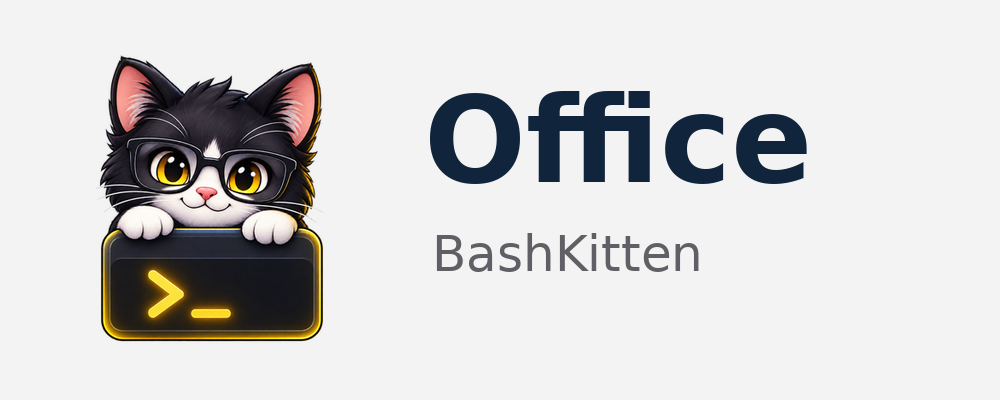
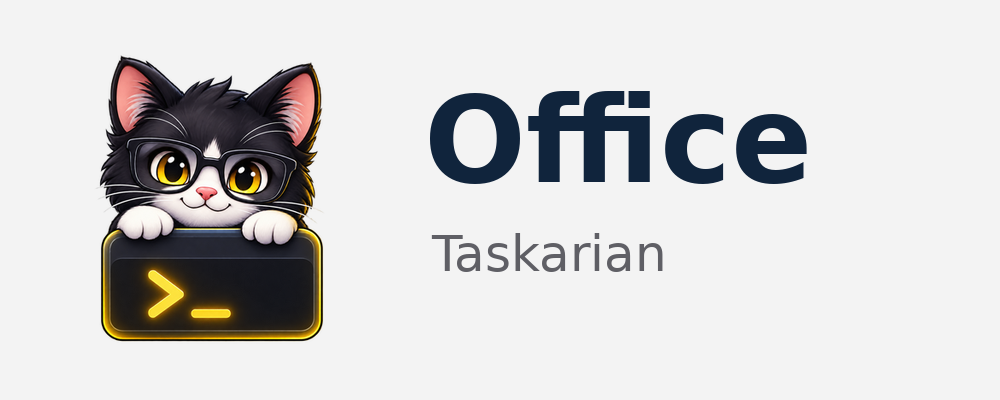
Regenerate Taskarian splash artwork and verified source metadata

Changed region(s): [[0.434, 0.57, 0.713, 0.69]]

diff --git a/browser/browser/base/content/overrides/app-license-body.html b/browser/browser/base/content/overrides/app-license-body.html
@@ -676,7 +676,7 @@
             For more information on this, and how to apply and follow the GNU AGPL, see
             &lt;https://www.gnu.org/licenses/&gt;.
     </pre>
-    <h2 id="taskarian-project-notices-33f40fa8d82726b7cae55a90841dccce7b47a55b7edddc265134b6441cdcf492">SHA-256 33f40fa8d82726b7cae55a90841dccce7b47a55b7edddc265134b6441cdcf492</h2>
+    <h2 id="taskarian-project-notices-26d86b0491d4aadb0e88ce029f40a17e6d4cceaaeb249ecc7b84f31a7af311d1">SHA-256 26d86b0491d4aadb0e88ce029f40a17e6d4cceaaeb249ecc7b84f31a7af311d1</h2>
     <p>Packages: Taskarian browser licences and source notices<br>Upstream paths: <code>taskarian/BLOCKER-ASSET-SOURCE-NOTICE</code></p>
     <pre>
             SPDX-License-Identifier: AGPL-3.0-or-later
@@ -688,7 +688,7 @@
             taskarian-blocker-assets-source.tar.xz beside the browser packages in the
             same release set.
     </pre>
-    <h2 id="taskarian-project-notices-68227c6c1c058d991d19625c21df6bf8870c0560ee66c35019386ac64cfa2b80">SHA-256 68227c6c1c058d991d19625c21df6bf8870c0560ee66c35019386ac64cfa2b80</h2>
+    <h2 id="taskarian-project-notices-5f934a64e5b18fb0439450a2f1e618ffbcafac7b5b6668a27223dc9be8d71f8d">SHA-256 5f934a64e5b18fb0439450a2f1e618ffbcafac7b5b6668a27223dc9be8d71f8d</h2>
     <p>Packages: Taskarian browser licences and source notices<br>Upstream paths: <code>taskarian/SOURCE-NOTICE</code></p>
     <pre>
             SPDX-License-Identifier: AGPL-3.0-or-later
@@ -739,7 +739,7 @@
             OUT OF OR IN CONNECTION WITH THE SOFTWARE OR THE USE OR OTHER DEALINGS IN THE
             SOFTWARE.
     </pre>
-    <h2 id="taskarian-project-notices-937b0af1adcead7df5980d6a2d7efb28ca4e3f1d246d708ceb79ed97e5db9869">SHA-256 937b0af1adcead7df5980d6a2d7efb28ca4e3f1d246d708ceb79ed97e5db9869</h2>
+    <h2 id="taskarian-project-notices-a7293c535da948258df662eac5c89deaece2baa624f13f2fe13ce85dcc5b24ae">SHA-256 a7293c535da948258df662eac5c89deaece2baa624f13f2fe13ce85dcc5b24ae</h2>
     <p>Packages: Taskarian browser licences and source notices<br>Upstream paths: <code>LICENSE</code></p>
     <pre>
             Taskarian-owned code and branding are licensed under GNU Affero General
@@ -778,7 +778,7 @@
             No rights or licenses are granted to the trademarks of the Mozilla Foundation
             or any other party, including the Firefox or Waterfox names and logos.
     </pre>
-    <h2 id="taskarian-project-notices-97c01d663782faf22125d54c0c1c153e58302bb846dca9394abca90b4c75a751">SHA-256 97c01d663782faf22125d54c0c1c153e58302bb846dca9394abca90b4c75a751</h2>
+    <h2 id="taskarian-project-notices-eb0240a85ce5dc6217dcf66e8f550adc6a0f5b8fe124d2bda6758d0bd32cfef1">SHA-256 eb0240a85ce5dc6217dcf66e8f550adc6a0f5b8fe124d2bda6758d0bd32cfef1</h2>
     <p>Packages: Taskarian browser licences and source notices<br>Upstream paths: <code>taskarian/browser/branding/LICENSE</code></p>
     <pre>
             The Taskarian kitten-with-glasses logo in
@@ -1249,7 +1249,7 @@
 
             For more information, please refer to &lt;http://unlicense.org/&gt;
     </pre>
-    <h2 id="taskarian-blocker-engine-notices-d99e38abd87f72d2d24570f119e90717bfb4017275bd33086456407a43f85bd5">SHA-256 d99e38abd87f72d2d24570f119e90717bfb4017275bd33086456407a43f85bd5</h2>
+    <h2 id="taskarian-blocker-engine-notices-a4b3f4865bc85dd8fdd0a0bfa4ce27dca157c094fa08d6fc0074e3ff71c25e3c">SHA-256 a4b3f4865bc85dd8fdd0a0bfa4ce27dca157c094fa08d6fc0074e3ff71c25e3c</h2>
     <p>Packages: Adblock engine and memchr source notices<br>Upstream paths: <code>taskarian/BLOCKER-ENGINE-SOURCE-NOTICE</code></p>
     <pre>
             SPDX-License-Identifier: AGPL-3.0-only
@@ -1289,7 +1289,7 @@
   </td>
   <td>
     <p>Exact upstream legal files follow once per distinct SHA-256 digest. Package names identify every component that supplied each file.</p>
-    <h2 id="taskarian-waterfox-notices-c681e62dc5182163301eb4baf839e5fb803e43a36fcbaece369e57f93dce185f">SHA-256 c681e62dc5182163301eb4baf839e5fb803e43a36fcbaece369e57f93dce185f</h2>
+    <h2 id="taskarian-waterfox-notices-82629860772bec414727ed39c3f1a2d6ea267866beaeca9a8454c7c6d7a2b14a">SHA-256 82629860772bec414727ed39c3f1a2d6ea267866beaeca9a8454c7c6d7a2b14a</h2>
     <p>Packages: Waterfox source and modification notices<br>Upstream paths: <code>taskarian/WATERFOX-NOTICE</code></p>
     <pre>
             Waterfox source and modifications
@@ -2866,7 +2866,7 @@
             For more information on this, and how to apply and follow the GNU AGPL, see
             &lt;https://www.gnu.org/licenses/&gt;.
     </pre>
-    <h2 id="taskarian-browseros-notices-7a585752e48f54839aa8b8bca2563e5928a54d4798201d41246b5d1fdbbb215e">SHA-256 7a585752e48f54839aa8b8bca2563e5928a54d4798201d41246b5d1fdbbb215e</h2>
+    <h2 id="taskarian-browseros-notices-575254f838093f241539e0b1174bc7b5a4979dca342bc0105f4f0ed9b6304a4e">SHA-256 575254f838093f241539e0b1174bc7b5a4979dca342bc0105f4f0ed9b6304a4e</h2>
     <p>Packages: BrowserOS browser tools, modifications and GNU AGPL 3.0<br>Upstream paths: <code>taskarian/components/taskarian-cli/NOTICE</code></p>
     <pre>
             WildBuzzard Browser Tools
@@ -3927,7 +3927,7 @@
             For more information on this, and how to apply and follow the GNU AGPL, see
             &lt;https://www.gnu.org/licenses/&gt;.
     </pre>
-    <h2 id="taskarian-unsloth-notices-7eb04ce7aa017196c37a152abcd6cff055fcec426493ce024ca1e62b55867fe5">SHA-256 7eb04ce7aa017196c37a152abcd6cff055fcec426493ce024ca1e62b55867fe5</h2>
+    <h2 id="taskarian-unsloth-notices-7925c073bcadcbc7245dadcbb3e62665d98f71b374893e82857cf72b4169313f">SHA-256 7925c073bcadcbc7245dadcbb3e62665d98f71b374893e82857cf72b4169313f</h2>
     <p>Packages: Unsloth Studio search adaptations in the companion Agent server<br>Upstream paths: <code>agent/search/third_party/unsloth-studio/NOTICE</code></p>
     <pre>
             Unsloth Studio — adapted search and page-reading code
